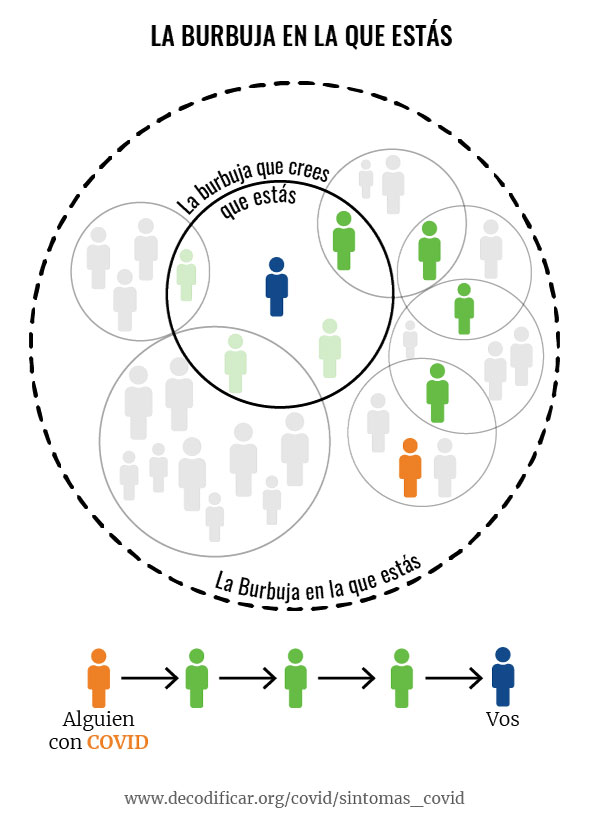
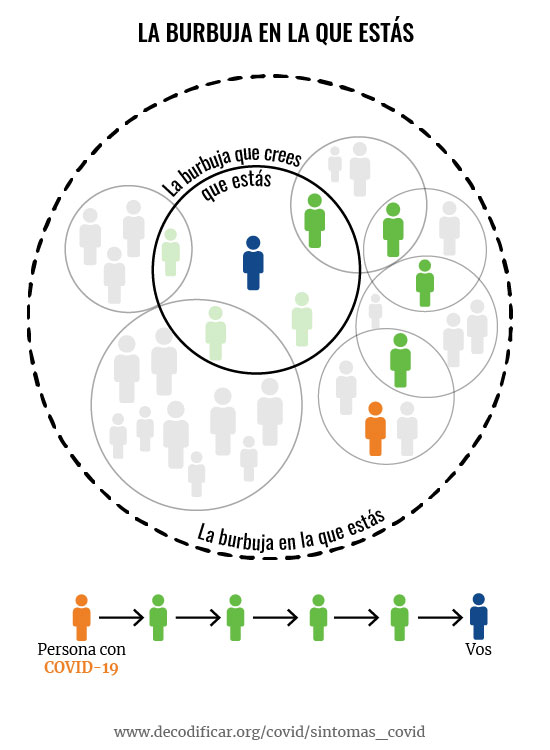
fixed r2

diff --git a/covid/mi_burbuja/index.html b/covid/mi_burbuja/index.html
@@ -601,11 +601,7 @@ var coloreaCategorias = d3.scaleOrdinal()
                     La burbuja donde creés que estás en realidad es mucho más grande.
                 </p>
             </div>
-            <div class='step' data-index='6'>
-                <p>
-                    La burbuja <mark class="label azul">donde creés que estás</mark> en realidad es <mark class="label naranja">mucho más grande</mark>.
-                </p>
-            </div>
+           
            
         </article>
 
@@ -736,7 +732,7 @@ var svg = d3.select("#contenedorGrafico svg")
 
                 case 3: // benja
                     d3.selectAll(".tipito.g4, .tipito.g5:not(.emi), #c4, #c5").transition().duration(400).delay((d,i)=>i*50).style("opacity",1)
-                    d3.selectAll(".tipito.emi").transition().duration(400).style("fill","#ccc").style("opacity",1);
+                    d3.selectAll(".tipito.emi, .tipito.benja, .tipito.carla").transition().duration(400).style("fill","#ccc").style("opacity",1);
                     
                     d3.selectAll(".tipito.ariel").transition().duration(400).delay(401).style("fill","#ccc");
                     d3.selectAll(".tipito.benja, .tipito.carla ").transition().duration(400).delay(401).style("fill","#67BD45").style("opacity",1);
@@ -749,9 +745,13 @@ var svg = d3.select("#contenedorGrafico svg")
 
                 case 4: // ACA HAY QUE PRENDER A EMI NARANJA
                     d3.selectAll(".tipito.g5.emi").transition().duration(400).delay((d,i)=>i*50).style("opacity",1)
-                    d3.selectAll(".tipito.g6, .tipito.g7, #c6, #c7").transition().duration(400).delay((d,i)=>i*50).style("opacity",0)
+                    d3.selectAll(".tipito.g6, .tipito.g7").transition().duration(400).delay((d,i)=>i*50).style("opacity",0)
                     d3.selectAll(".tipito.emi").transition().duration(400).delay((d,i)=>i*50).style("fill","#F26522")
                     d3.selectAll(".tipito.benja, .tipito.carla").transition().duration(400).delay(401).style("fill","#ccc")
+
+                    d3.selectAll(".circle").transition().duration(200).delay((d,i)=>i*50)
+                    .style("stroke","black")
+                    .style("opacity",(d,i)=>i<5?1:0)
 
                     engloba =d3.packEnclose(circulosData.splice(0,5))
                     moveRed = 15;
@@ -760,19 +760,12 @@ var svg = d3.select("#contenedorGrafico svg")
                 case 5: // inicio
                     d3.selectAll(".tipito.g6, .tipito.g7").transition().duration(400).delay((d,i)=>i*50).style("opacity",1)
                     d3.selectAll(".circle").transition().duration(400).delay((d,i)=>i*50)
-                        .style("stroke","black")
+                    .style("stroke",(d,i)=>i?"#ddd":"#00468B")
                         .style("opacity",1)
                         ;
                         moveRed =15;
                     engloba =d3.packEnclose(circulosData.splice(0,7))
 
-                break;
-
-                case 6: // inicio
-                    d3.selectAll(".circle").transition().duration(600)
-                        .style("stroke",(d,i)=>i?"#ddd":"#00468B");
-                    engloba =d3.packEnclose(circulosData.splice(0,7))
-                    moveRed =15;
                 break;
 
             
@@ -782,8 +775,8 @@ var svg = d3.select("#contenedorGrafico svg")
             console.log(engloba.x,width/2)
             d3.select("#todo").transition().duration(400).delay(400).attr("transform","translate("+(207/2-engloba.x)+",0)")
             d3.select("#engloba").transition().duration(400).delay(400).attr("r",engloba.r+(step?3:0)).attr("cx",engloba.x).attr("cy",engloba.y)
-            .style("stroke",step==6?"#F26522":"black") // cambia de color en el ultimo step
-            .style("stroke-width",step>4?"2":"1"); // cambia de color en el ultimo step
+            .style("stroke",step==5?"#F26522":"black") // cambia de color en el ultimo step
+            .style("stroke-width",step==5?"2":"1"); // cambia de color en el ultimo step
 
         }
     }
